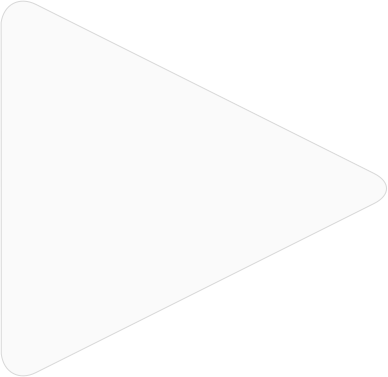
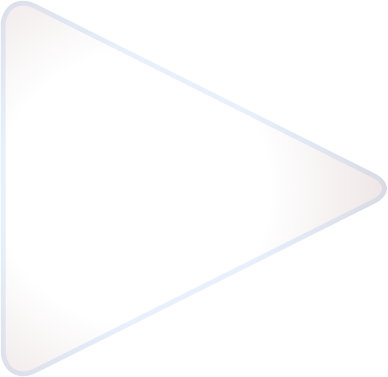
adding new play button, some notices for privacy

diff --git a/src/options/index.html b/src/options/index.html
@@ -38,6 +38,11 @@
 		Thanks for installing InstaTab.<br>
 		<a href="https://github.com/usmanity/tabby/issues">Report an issue with this extension.</a>
 	</div>
+	<div class="notices">
+		InstaTab is not related to or affiliated with Instagram or Facebook.<br>
+		Instagram users own their content, this extension does not claim any ownership of any content.<br>
+		InstaTab does not store any personal information or save any photos.
+	</div>
 	<script charset="utf-8" src="/js/moment.js"></script>
 	<script charset="utf-8" src="/js/jquery/jquery.min.js"></script>
 	<script charset="utf-8" src="/js/konami.js"></script>

diff --git a/src/styles/styles.css b/src/styles/styles.css
@@ -64,3 +64,8 @@ input[type=radio]{
 .form-group {
   margin: 6px auto;
 }
+.notices {
+  position: fixed;
+  bottom: 10px;
+  font-size: 12px;
+}
